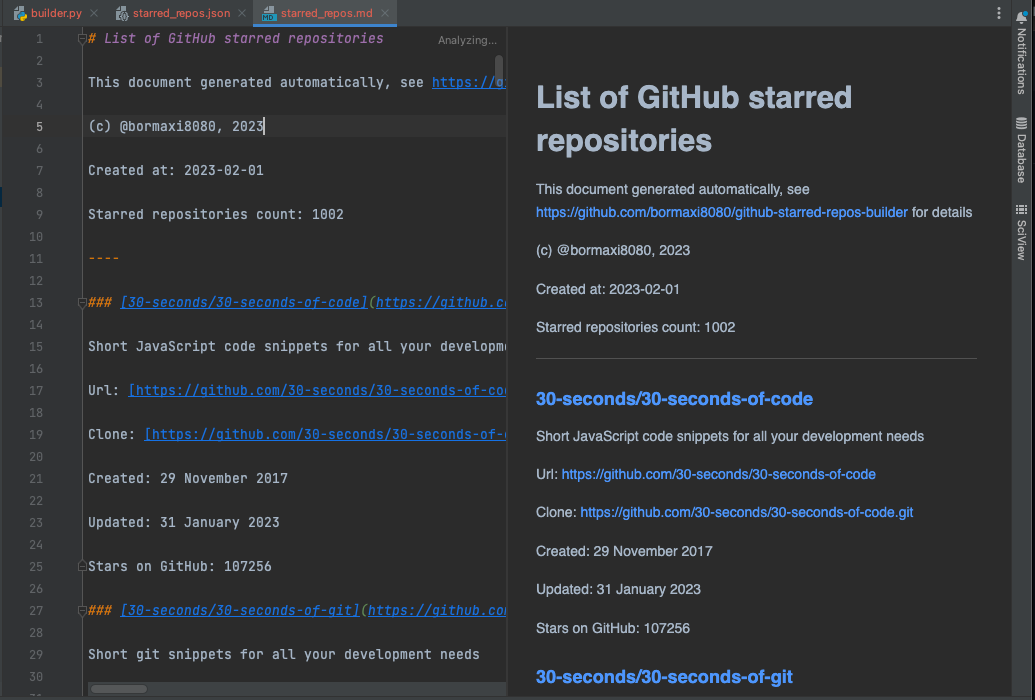
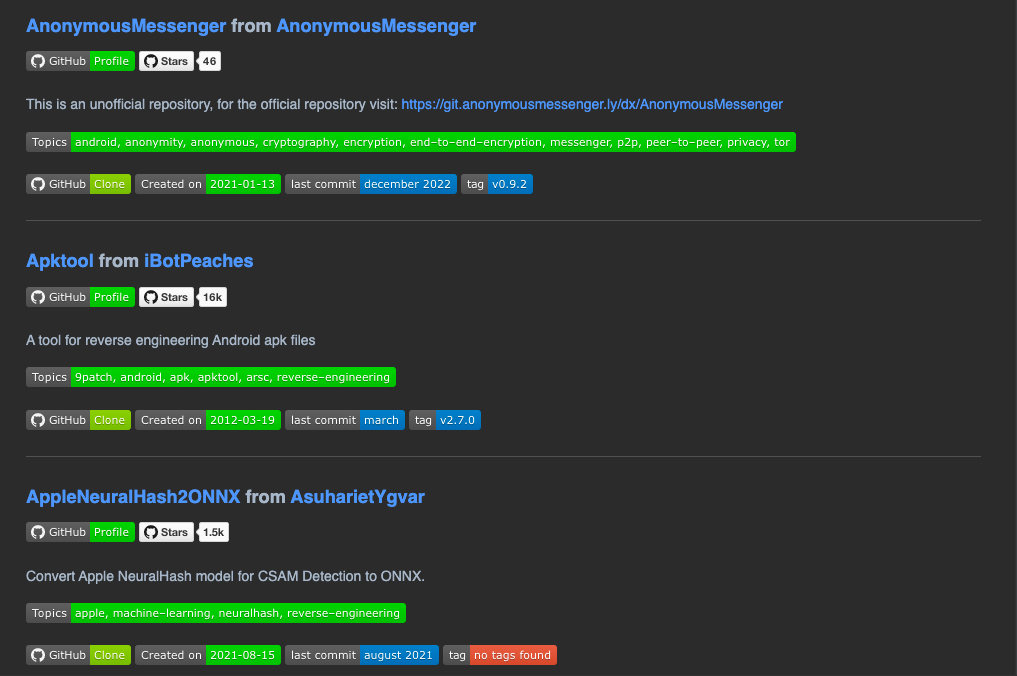
Use GitHub badges

diff --git a/builder.py b/builder.py
@@ -19,7 +19,7 @@ HEADERS = {
     "Authorization": "token {0}".format(GITHUB_API_TOKEN)
 }
 
-MD_DOCUMENT_HEADER = "# List of GitHub starred repositories"
+MD_DOCUMENT_HEADER = "## List of GitHub starred repositories"
 MD_DOCUMENT_GENERATION = "This document generated automatically, see {0} for details".format(GITHUB_REPO_URL)
 MD_DOCUMENT_LINE_SEPARATOR = "\r\n"
 MD_DOCUMENT_GROUP_SEPARATOR = "----"
@@ -103,49 +103,58 @@ if __name__ == '__main__':
     # Save repos to document structure
     print("Generating Markdown document...")
     for repo in SORTED_REPOS:
-        # MD_DOCUMENT = MD_DOCUMENT + "### [{0}]({1})".format(str(repo["full_name"]), str(repo["html_url"]))
-        # MD_DOCUMENT = MD_DOCUMENT + "[{0}]({1}) from [{2}]({3})".format(str(repo["name"]), str(repo["html_url"]),
-        #                                                                str(repo["owner"]["login"]), str(repo["owner"]["html_url"]))
-        # MD_DOCUMENT = _separate(MD_DOCUMENT)
-
-        MD_DOCUMENT = MD_DOCUMENT + '<nobr><img height="16" src="github.png" alt="GitHub Repository"/><a href="{0}">{1}</a> from <a href="{2}">{3}</a></nobr>'.format(
-            str(repo["html_url"]), str(repo["name"]),
-            str(repo["owner"]["html_url"]), str(repo["owner"]["login"])
+        # Repository link
+        MD_DOCUMENT += "### [{0}]({1}) from [{2}]({3})".format(
+            str(repo["name"]), str(repo["html_url"]),
+            str(repo["owner"]["login"]), str(repo["owner"]["html_url"])
         )
-        MD_DOCUMENT = MD_DOCUMENT + '<br/><br/>'
+        MD_DOCUMENT = _separate(MD_DOCUMENT)
+        # Author
+        MD_DOCUMENT += "[![GitHub](https://img.shields.io/badge/GitHub-Profile-brightgreen?logo=github)](https://github.com/{0})".format(
+            str(repo["owner"]["login"]))
+        # Stars
+        MD_DOCUMENT += " [![GitHub stars](https://img.shields.io/github/stars/{0}/{1}.svg?style=social&label=Stars)]({2})".format(
+            str(repo["owner"]["login"]), str(repo["name"]), str(repo["html_url"])
+        )
+        MD_DOCUMENT = _separate(MD_DOCUMENT)
 
-        if not repo["description"] is None:
-            MD_DOCUMENT = MD_DOCUMENT + str(repo["description"])
-            # MD_DOCUMENT = _separate(MD_DOCUMENT)
-            MD_DOCUMENT = MD_DOCUMENT + '<br/><br/>'
+        # Description
+        if repo["description"] is None:
+            MD_DOCUMENT += "No project description"
+        else:
+            MD_DOCUMENT += str(repo["description"])
+        MD_DOCUMENT = _separate(MD_DOCUMENT)
 
-        # MD_DOCUMENT = MD_DOCUMENT + "Url: [{0}]({1})".format(str(repo["html_url"]), str(repo["html_url"]))
-        # MD_DOCUMENT = _separate(MD_DOCUMENT)
-        # MD_DOCUMENT = MD_DOCUMENT + "Clone: [{0}]({1})".format(str(repo["clone_url"]), str(repo["clone_url"]))
-        # MD_DOCUMENT = _separate(MD_DOCUMENT)
+        # Topics
+        if not repo["topics"] is None:
+            topics = repo["topics"]
+            if len(topics) > 0:
+                str_topics = "%2C%20".join(topics).replace("-", "\u2013")
+                MD_DOCUMENT += "[![GitHub topics](https://img.shields.io/badge/Topics-{0}-brightgreen.svg)]({1})".format(
+                    str_topics,
+                    str(repo["html_url"])
+                )
+                MD_DOCUMENT = _separate(MD_DOCUMENT)
 
-        # MD_DOCUMENT = MD_DOCUMENT + "Created: {0}".format(
-        #    datetime.strptime(str(repo["created_at"]), '%Y-%m-%dT%H:%M:%SZ').strftime("%d %B %Y"))
-        # # MD_DOCUMENT = _separate(MD_DOCUMENT)
-        # MD_DOCUMENT = MD_DOCUMENT + " / Updated: {0}".format(
-        #    datetime.strptime(str(repo["updated_at"]), '%Y-%m-%dT%H:%M:%SZ').strftime("%d %B %Y"))
-        # MD_DOCUMENT = _separate(MD_DOCUMENT)
-        # # MD_DOCUMENT = MD_DOCUMENT + "Stars on GitHub: {0}".format(str(repo["stargazers_count"]))
+        # Clone
+        MD_DOCUMENT += "[![GitHub clone](https://img.shields.io/badge/GitHub-Clone-green?logo=github)]({0})".format(str(repo["clone_url"]))
+        # First commit (created_at)
+        MD_DOCUMENT += " [![GitHub creation date](https://img.shields.io/badge/Created%20on-{0}-brightgreen.svg)]({1})".format(
+            datetime.strptime(str(repo["created_at"]), '%Y-%m-%dT%H:%M:%SZ').strftime("%Y--%m--%d"),
+            str(repo["html_url"])
+        )
+        # Last commit
+        MD_DOCUMENT += " [![GitHub last commit](https://img.shields.io/github/last-commit/{0}/{1}.svg?color=blue)]({2})".format(
+            str(repo["owner"]["login"]), str(repo["name"]), str(repo["html_url"])
+        )
+        # Tags
+        MD_DOCUMENT += " [![GitHub tags](https://img.shields.io/github/v/tag/{0}/{1}.svg)]({2})".format(
+            str(repo["owner"]["login"]), str(repo["name"]), str(repo["html_url"])
+        )
 
-        MD_DOCUMENT = MD_DOCUMENT + '<img src="created_at.png" height="16" alt="Created at"/> {0}'.format(
-            datetime.strptime(str(repo["created_at"]), '%Y-%m-%dT%H:%M:%SZ').strftime("%d.%m.%Y"))
-        MD_DOCUMENT = MD_DOCUMENT + '<img src="created_at.png" height="16" alt="Updated at"/> {0}'.format(
-            datetime.strptime(str(repo["updated_at"]), '%Y-%m-%dT%H:%M:%SZ').strftime("%d.%m.%Y"))
-        MD_DOCUMENT = MD_DOCUMENT + '<img src="star.png" height="16" alt="Stars on GitHub"/> {0}'.format(str(repo["stargazers_count"]))
-
-        MD_DOCUMENT = MD_DOCUMENT + '<hr/>'
-
-        # MD_DOCUMENT = _separate(MD_DOCUMENT)
-        # MD_DOCUMENT = _separate(MD_DOCUMENT)
-        # MD_DOCUMENT = _separate(MD_DOCUMENT)
-
-        # MD_DOCUMENT = MD_DOCUMENT + MD_DOCUMENT_GROUP_SEPARATOR
-        # MD_DOCUMENT = _separate(MD_DOCUMENT)
+        MD_DOCUMENT = _separate(MD_DOCUMENT)
+        MD_DOCUMENT += MD_DOCUMENT_GROUP_SEPARATOR
+        MD_DOCUMENT = _separate(MD_DOCUMENT)
 
     print("Saving document data...")
     # Save Markdown document to file

diff --git a/README.md b/README.md
@@ -1,7 +1,6 @@
 # github-starred-repos-builder
 
-Shell script for build all your starred GitHub repositories information in Markdown document
-
+Shell script for build all your starred GitHub repositories information in Markdown document.
 
 ## Purposes:
 
@@ -9,14 +8,13 @@ This Python script helps for generate Markdown description document contains all
 
 This is typically needed in a situation when you have many starred repositories to view, such as collection of various utilities.
 
-
 This script does simple things:
 
 > Gets list of your starred GitHub repositories.
 >
 > Generate JSON and Markdown document with your GitHub starred repos statistics
 
-## That's all!
+That's all!
 
 *It works on GitHub only! (not in GitLab or BitBucket)
 
